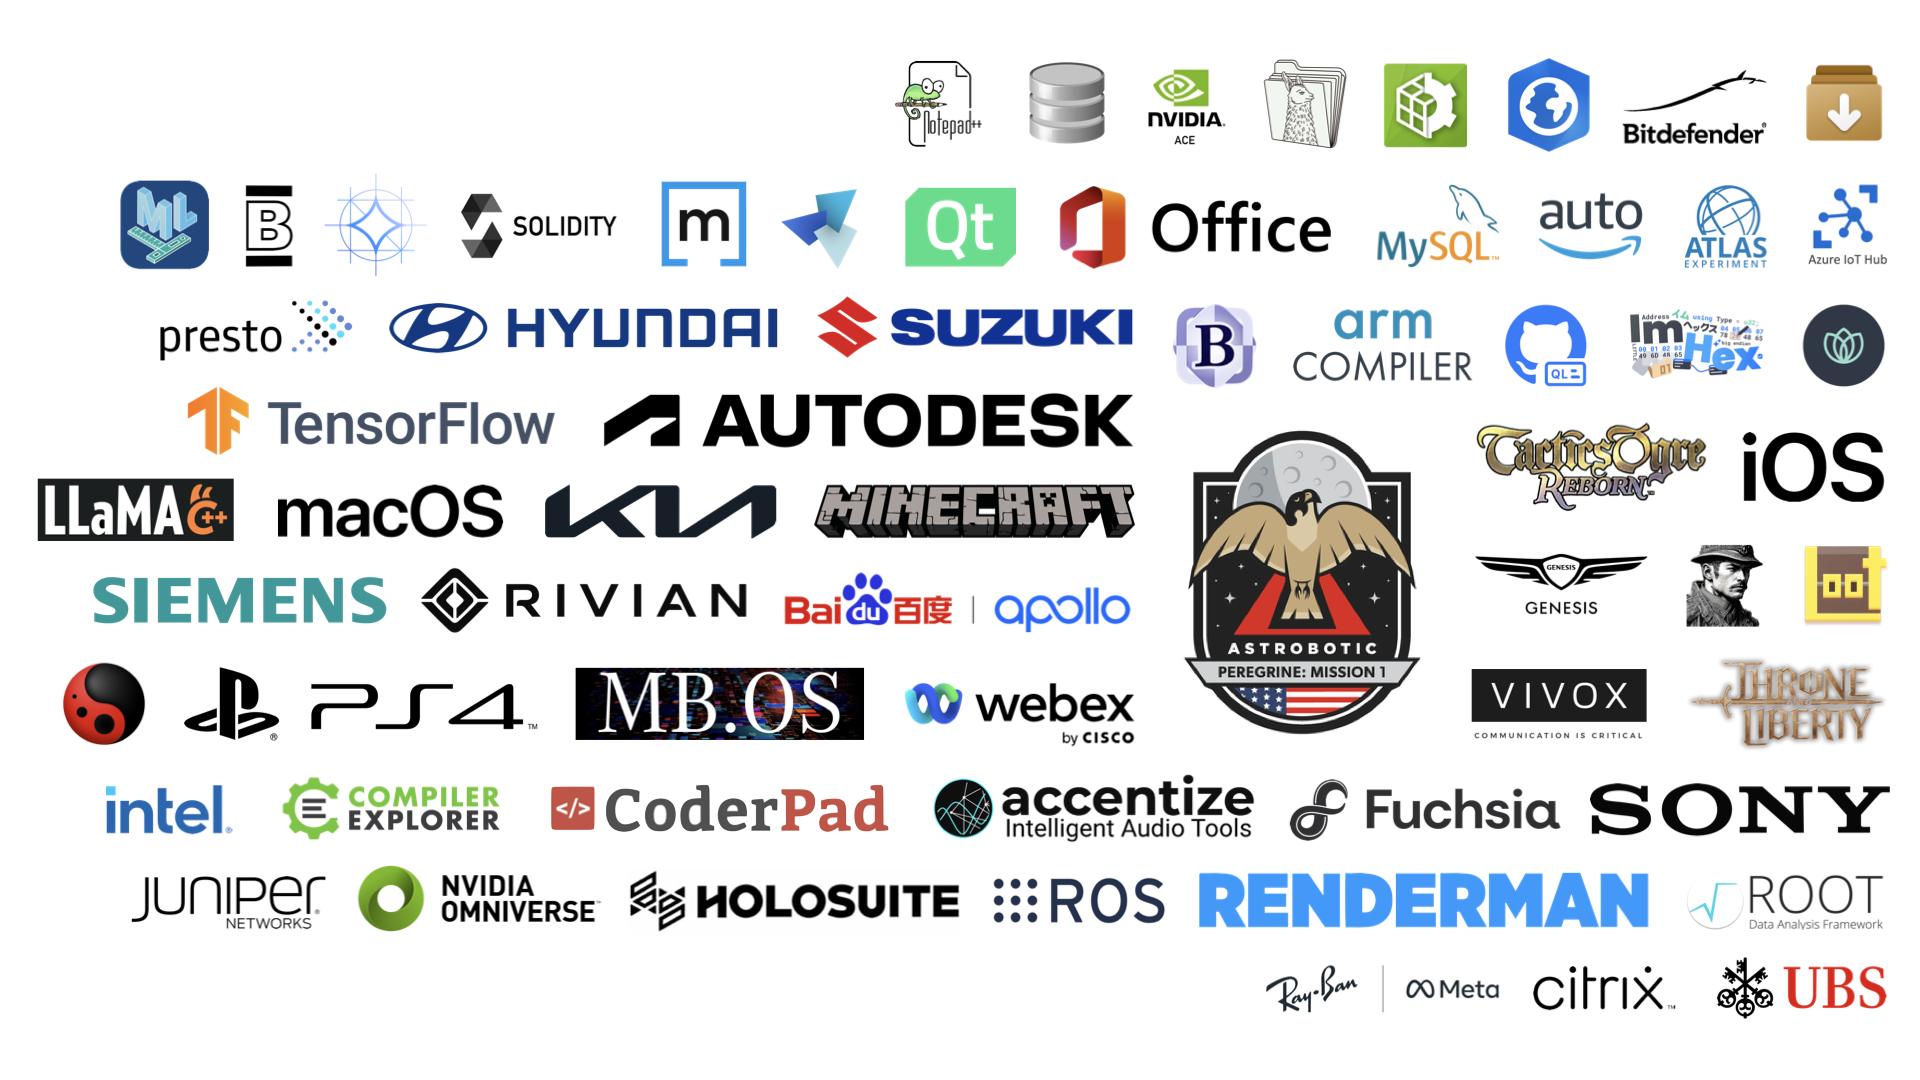
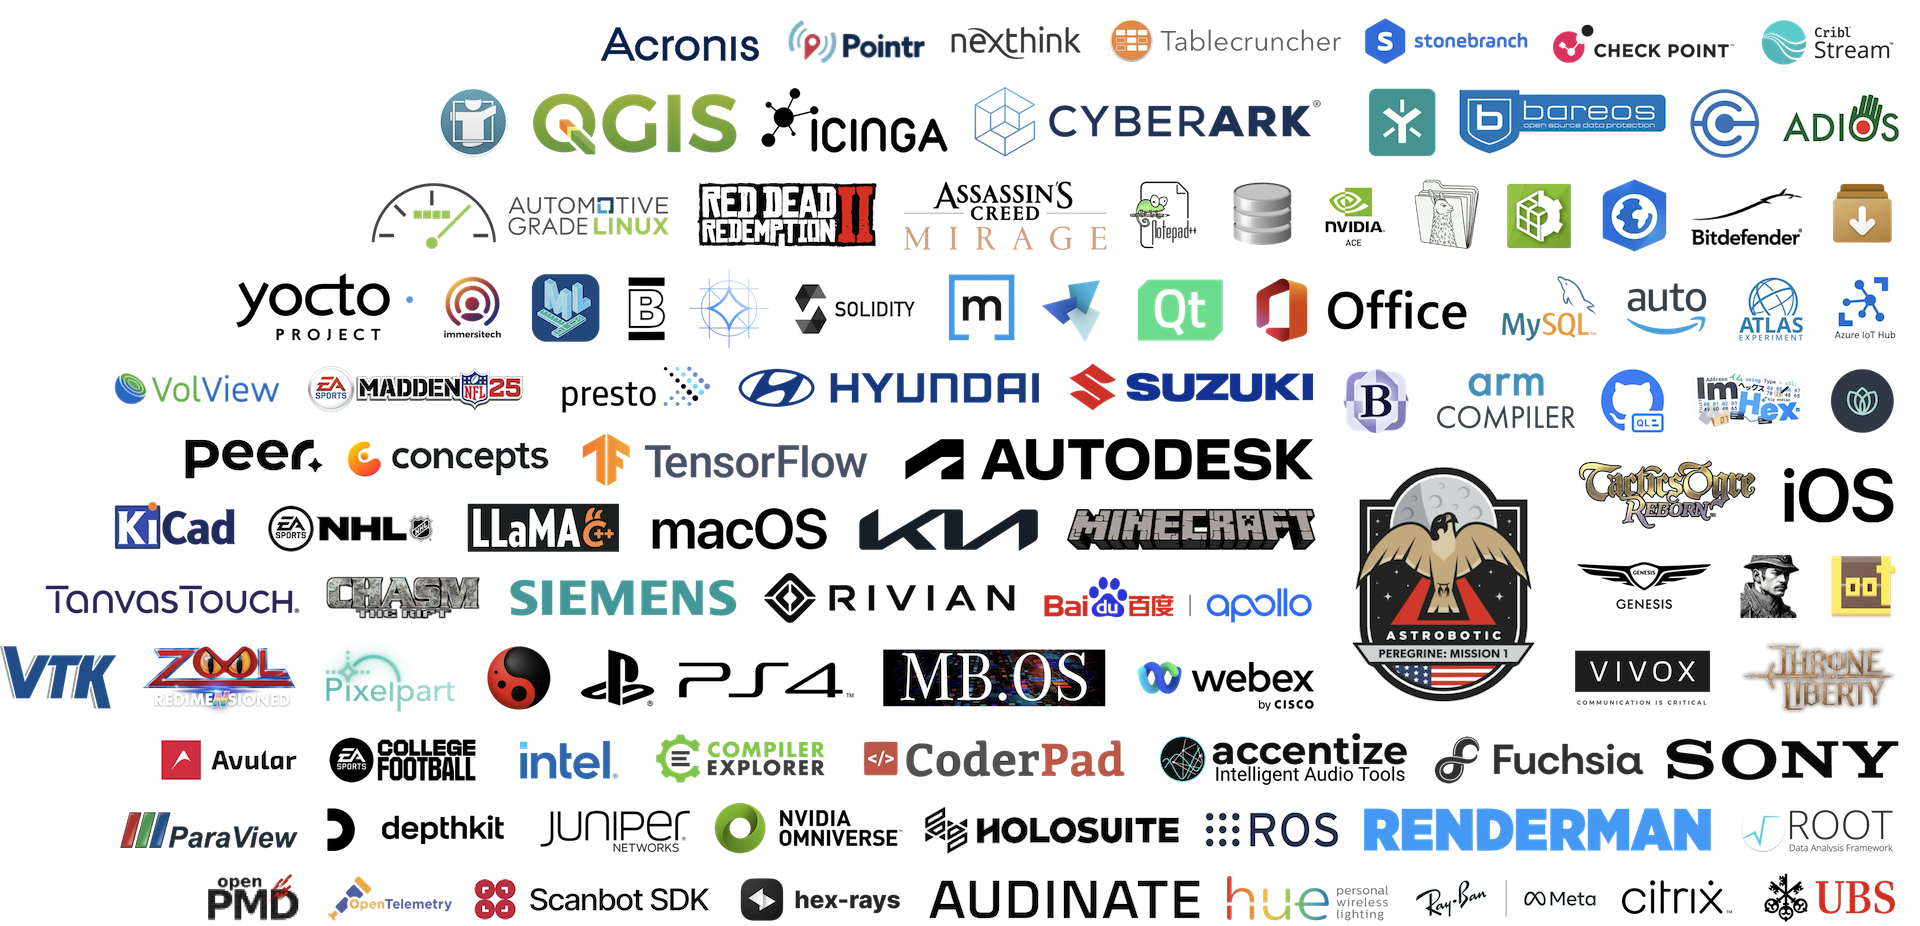
:memo: update clients

diff --git a/README.md b/README.md
@@ -1127,6 +1127,7 @@ The library is used in multiple projects, applications, operating systems, etc. 
 
 - [**Alexa Auto SDK**](https://github.com/alexa/alexa-auto-sdk), a software development kit enabling the integration of Alexa into automotive systems
 - [**Apollo**](https://github.com/ApolloAuto/apollo), a framework for building autonomous driving systems
+- [**Automotive Grade Linux (AGL)**](https://download.automotivelinux.org/AGL/release/jellyfish/latest/qemux86-64/deploy/licenses/nlohmann-json/): a collaborative open-source platform for automotive software development
 - [**Genesis Motor** (infotainment)](http://webmanual.genesis.com/ccIC/AVNT/JW/KOR/English/reference010.html), a luxury automotive brand
 - [**Hyundai** (infotainment)](https://www.hyundai.com/wsvc/ww/download.file.do?id=/content/hyundai/ww/data/opensource/data/GN7-2022/licenseCode/info), a global automotive brand
 - [**Kia** (infotainment)](http://webmanual.kia.com/PREM_GEN6/AVNT/RJPE/KOR/Korean/reference010.html), a global automotive brand
@@ -1136,16 +1137,29 @@ The library is used in multiple projects, applications, operating systems, etc. 
 
 ### Gaming and Entertainment
 
+- [**Assassin's Creed: Mirage**](https://www.mobygames.com/person/1195889/niels-lohmann/credits/): a stealth-action game set in the Middle East, focusing on the journey of a young assassin with classic parkour and stealth mechanics
+- [**Chasm: The Rift**](https://www.mobygames.com/person/1195889/niels-lohmann/credits/): a first-person shooter blending horror and adventure, where players navigate dark realms and battle monsters
+- [**College Football 25**](https://www.mobygames.com/person/1195889/niels-lohmann/credits/): a college football simulation game featuring gameplay that mimics real-life college teams and competitions
+- [**Concepts**](https://concepts.app/en/licenses): a digital sketching app designed for creative professionals, offering flexible drawing tools for illustration, design, and brainstorming
+- [**Depthkit**](https://www.depthkit.tv/third-party-licenses): a tool for creating and capturing volumetric video, enabling immersive 3D experiences and interactive content
+- [**immersivetech**](https://immersitech.io/open-source-third-party-software/): a technology company focused on immersive experiences, providing tools and solutions for virtual and augmented reality applications
 - [**LOOT**](https://loot.readthedocs.io/_/downloads/en/0.13.0/pdf/), a tool for optimizing the load order of game plugins, commonly used in The Elder Scrolls and Fallout series
+- [**Madden NFL 25**](https://www.mobygames.com/person/1195889/niels-lohmann/credits/): a sports simulation game capturing the excitement of American football with realistic gameplay and team management features
 - [**Marne**](https://marne.io/licenses), an unofficial private server platform for hosting custom Battlefield 1 game experiences
 - [**Minecraft**](https://www.minecraft.net/zh-hant/attribution), a popular sandbox video game
+- [**NHL 22**](https://www.mobygames.com/person/1195889/niels-lohmann/credits/): a hockey simulation game offering realistic gameplay, team management, and various modes to enhance the hockey experience
+- [**Pixelpart**](https://pixelpart.net/documentation/book/third-party.html): a 2D animation and video compositing software that allows users to create animated graphics and visual effects with a focus on simplicity and ease of use
+- [**Red Dead Redemption II**](https://www.mobygames.com/person/1195889/niels-lohmann/credits/): an open-world action-adventure game following an outlaw's story in the late 1800s, emphasizing deep storytelling and immersive gameplay
 - [**Tactics Ogre: Reborn**](https://www.square-enix-games.com/en_US/documents/tactics-ogre-reborn-pc-installer-software-and-associated-plug-ins-disclosure), a tactical role-playing game featuring strategic battles and deep storytelling elements
 - [**Throne and Liberty**](https://www.amazon.com/gp/help/customer/display.html?nodeId=T7fLNw5oAevCMtJFPj&pop-up=1), an MMORPG that offers an expansive fantasy world with dynamic gameplay and immersive storytelling
 - [**Unity Vivox**](https://docs.unity3d.com/Packages/com.unity.services.vivox@15.1/license/Third%20Party%20Notices.html), a communication service that enables voice and text chat functionality in multiplayer games developed with Unity
+- [**Zool: Redimensioned**](https://www.mobygames.com/person/1195889/niels-lohmann/credits/): a modern reimagining of the classic platformer featuring fast-paced gameplay and vibrant environments
 
 ### Consumer Electronics
 
+- [**Audinate**](https://www.audinate.com/legal/software-licensing/dante-av-h-open-source-licenses/): a provider of networked audio solutions specializing in Dante technology, which facilitates high-quality digital audio transport over IP networks
 - [**Cisco Webex Desk Camera**](https://www.cisco.com/c/dam/en_us/about/doing_business/open_source/docs/CiscoWebexDeskCamera-23-1622100417.pdf), a video camera designed for professional-quality video conferencing and remote collaboration
+- [**Philips Hue Personal Wireless Lighting**](http://2ak5ape.257.cz/): a smart lighting system for customizable and wireless home illumination
 - [**Ray-Ban Meta Smart glasses**](https://www.meta.com/de/en/legal/smart-glasses/third-party-notices-android/03/), a pair of smart glasses designed for capturing photos and videos with integrated connectivity and social features
 - [**Siemens SINEMA Remote Connect**](https://cache.industry.siemens.com/dl/files/790/109793790/att_1054961/v2/OSS_SINEMA-RC_86.pdf), a remote connectivity solution for monitoring and managing industrial networks and devices securely
 - [**Sony PlayStation 4**](https://doc.dl.playstation.net/doc/ps4-oss/index.html), a gaming console developed by Sony that offers a wide range of games and multimedia entertainment features
@@ -1156,6 +1170,7 @@ The library is used in multiple projects, applications, operating systems, etc. 
 - [**Apple iOS and macOS**](https://www.apple.com/macos), a family of operating systems developed by Apple, including iOS for mobile devices and macOS for desktop computers
 - [**Google Fuchsia**](https://fuchsia.googlesource.com/third_party/json/), an open-source operating system developed by Google, designed to be secure, updatable, and adaptable across various devices
 - [**SerenityOS**](https://github.com/SerenityOS/serenity), an open-source operating system that aims to provide a simple and beautiful user experience with a focus on simplicity and elegance
+- [**Yocto**](http://ftp.emacinc.com/openembedded-sw/kirkstone-icop-5.15-kirkstone-6.0/archive-2024-10/pn8m-090t-ppc/licenses/nlohmann-json/): a Linux-based build system for creating custom operating systems and software distributions, tailored for embedded devices and IoT applications
 
 ### Development Tools and IDEs
 
@@ -1165,36 +1180,58 @@ The library is used in multiple projects, applications, operating systems, etc. 
 - [**CoderPad**](https://coderpad.io), a collaborative coding platform that enables real-time code interviews and assessments for developers; the library is included in every CoderPad instance and can be accessed with a simple `#include "json.hpp"`
 - [**Compiler Explorer**](https://godbolt.org), a web-based tool that allows users to write, compile, and visualize the assembly output of code in various programming languages; the library is readily available and accessible with the directive `#include <nlohmann/json.hpp>`.
 - [**GitHub CodeQL**](https://github.com/github/codeql), a code analysis tool used for identifying security vulnerabilities and bugs in software through semantic queries
+- [**Hex-Rays**](https://docs.hex-rays.com/user-guide/user-interface/licenses): a reverse engineering toolset for analyzing and decompiling binaries, primarily used for security research and vulnerability analysis
 - [**ImHex**](https://github.com/WerWolv/ImHex), a hex editor designed for reverse engineering, providing advanced features for data analysis and manipulation
 - [**Intel GPA Framework**](https://intel.github.io/gpasdk-doc/src/licenses.html), a suite of cross-platform tools for capturing, analyzing, and optimizing graphics applications across different APIs
 - [**Meta Yoga**](https://github.com/facebook/yoga), a layout engine that facilitates flexible and efficient user interface design across multiple platforms
-- [**Notepad++**](https://github.com/notepad-plus-plus/notepad-plus-plus), a free source code editor that supports various programming languages
 - [**NVIDIA Nsight Compute**](https://docs.nvidia.com/nsight-compute/2022.2/pdf/CopyrightAndLicenses.pdf), a performance analysis tool for CUDA applications that provides detailed insights into GPU performance metrics
+- [**Notepad++**](https://github.com/notepad-plus-plus/notepad-plus-plus), a free source code editor that supports various programming languages
+- [**OpenTelemetry C++**](https://github.com/open-telemetry/opentelemetry-cpp): a library for collecting and exporting observability data in C++, enabling developers to implement distributed tracing and metrics in their application
 - [**Qt Creator**](https://doc.qt.io/qtcreator/qtcreator-attribution-json-nlohmann.html), an IDE for developing applications using the Qt application framework
+- [**Scanbot SDK**](https://docs.scanbot.io/barcode-scanner-sdk/web/third-party-libraries/): a software development kit (SDK) that provides tools for integrating advanced document scanning and barcode scanning capabilities into applications
 
 ### Machine Learning and AI
 
 - [**Apple Core ML Tools**](https://github.com/apple/coremltools), a set of tools for converting and configuring machine learning models for deployment in Apple's Core ML framework
+- [**Avular Mobile Robotics**](https://www.avular.com/licenses/nlohmann-json-3.9.1.txt): a platform for developing and deploying mobile robotics solutions
 - [**Google gemma.cpp**](https://github.com/google/gemma.cpp), a lightweight C++ inference engine designed for running AI models from the Gemma family
 - [**llama.cpp**](https://github.com/ggerganov/llama.cpp), a C++ library designed for efficient inference of large language models (LLMs), enabling streamlined integration into applications
 - [**Mozilla llamafile**](https://github.com/Mozilla-Ocho/llamafile), a tool designed for distributing and executing large language models (LLMs) efficiently using a single file format
 - [**NVIDIA ACE**](https://docs.nvidia.com/ace/latest/index.html), a suite of real-time AI solutions designed for the development of interactive avatars and digital human applications, enabling scalable and sophisticated user interactions
+- [**Peer**](https://support.peer.inc/hc/en-us/articles/17261335054235-Licenses): a platform offering personalized AI assistants for interactive learning and creative collaboration
+- [**stable-diffusion.cpp**](https://github.com/leejet/stable-diffusion.cpp): a C++ implementation of the Stable Diffusion image generation model
+- [**TanvasTouch**](https://tanvas.co/tanvastouch-sdk-third-party-acknowledgments): a software development kit (SDK) that enables developers to create tactile experiences on touchscreens, allowing users to feel textures and physical sensations in a digital environment
 - [**TensorFlow**](https://github.com/tensorflow/tensorflow), a machine learning framework that facilitates the development and training of models, supporting data serialization and efficient data exchange between components
 
 ### Scientific Research and Analysis
 
 - [**BLACK**](https://www.black-sat.org/en/stable/installation/linux.html), a bounded linear temporal logic (LTL) satisfiability checker
 - [**CERN Atlas Athena**](https://gitlab.cern.ch/atlas/athena/-/blob/main/Control/PerformanceMonitoring/PerfMonComps/src/PerfMonMTSvc.h), a software framework used in the ATLAS experiment at the Large Hadron Collider (LHC) for performance monitoring
+- [**KAMERA**](https://github.com/Kitware/kamera): a platform for synchronized data collection and real-time deep learning to map marine species like polar bears and seals, aiding Arctic ecosystem research
+- [**KiCad**](https://gitlab.com/kicad/code/kicad/-/tree/master/thirdparty/nlohmann_json): a free and open-source software suite for electronic design automation
+- [**MeVisLab**](https://mevislabdownloads.mevis.de/docs/current/MeVis/ThirdParty/Documentation/Publish/ThirdPartyReference/index.html): a software framework for medical image processing and visualization.
+- [**OpenPMD API**](https://openpmd-api.readthedocs.io/en/0.8.0-alpha/backends/json.html): a versatile programming interface for accessing and managing scientific data, designed to facilitate the efficient storage, retrieval, and sharing of simulation data across various applications and platforms
+- [**ParaView**](https://github.com/Kitware/ParaView): an open-source tool for large-scale data visualization and analysis across various scientific domains
+- [**QGIS**](https://gitlab.b-data.ch/qgis/qgis/-/blob/backport-57658-to-release-3_34/external/nlohmann/json.hpp): a free and open-source geographic information system (GIS) application that allows users to create, edit, visualize, and analyze geospatial data across a variety of formats
+- [**VTK**](https://github.com/Kitware/VTK): a software library for 3D computer graphics, image processing, and visualization
+- [**VolView**](https://github.com/Kitware/VolView): a lightweight application for interactive visualization and analysis of 3D medical imaging data.
 
 ### Business and Productivity Software
 
 - [**ArcGIS PRO**](https://www.esri.com/content/dam/esrisites/en-us/media/legal/open-source-acknowledgements/arcgis-pro-2-8-attribution-report.html), a desktop geographic information system (GIS) application developed by Esri for mapping and spatial analysis
 - [**Autodesk Desktop**](https://damassets.autodesk.net/content/dam/autodesk/www/Company/legal-notices-trademarks/autodesk-desktop-platform-components/internal-autodesk-components-web-page-2023.pdf), a software platform developed by Autodesk for creating and managing desktop applications and services
-- [**magicplan**](https://help.magicplan.app/acknowledgments), a mobile application for creating floor plans and interior designs using augmented reality
+- [**Check Point**](https://www.checkpoint.com/about-us/copyright-and-trademarks/): a cybersecurity company specializing in threat prevention and network security solutions, offering a range of products designed to protect enterprises from cyber threats and ensure data integrity
 - [**Microsoft Office for Mac**](https://officecdnmac.microsoft.com/pr/legal/mac/OfficeforMacAttributions.html), a suite of productivity applications developed by Microsoft for macOS, including tools for word processing, spreadsheets, and presentations
+- [**Nexthink Infinity**](https://docs.nexthink.com/legal/services-terms/experience-open-source-software-licenses/infinity-2022.8-software-licenses): a digital employee experience management platform for monitoring and improving IT performance
+- [**Sophos Connect Client**](https://docs.sophos.com/nsg/licenses/SophosConnect/SophosConnectAttribution.html): a secure VPN client from Sophos that allows remote users to connect to their corporate network, ensuring secure access to resources and data
+- [**Stonebranch**](https://stonebranchdocs.atlassian.net/wiki/spaces/UA77/pages/799545647/Licenses+for+Third-Party+Libraries): a cloud-based cybersecurity solution that integrates backup, disaster recovery, and cybersecurity features to protect data and ensure business continuity for organizations
+- [**Tablecruncher**](https://tablecruncher.com/): a data analysis tool that allows users to import, analyze, and visualize spreadsheet data, offering interactive features for better insights and decision-making
+- [**magicplan**](https://help.magicplan.app/acknowledgments), a mobile application for creating floor plans and interior designs using augmented reality
 
 ### Databases and Big Data
 
+- [**ADIOS2**](https://code.ornl.gov/ecpcitest/adios2/-/tree/pr4285_FFSUpstream/thirdparty/nlohmann_json?ref_type=heads): a data management framework designed for high-performance input and output operations
+- [**Cribl Stream**](https://docs.cribl.io/stream/third-party-current-list/): a real-time data processing platform that enables organizations to collect, route, and transform observability data, enhancing visibility and insights into their systems
 - [**DB Browser for SQLite**](https://github.com/sqlitebrowser/sqlitebrowser), a visual open-source tool for creating, designing, and editing SQLite database files
 - [**MySQL Connector/C++**](https://docs.oracle.com/cd/E17952_01/connector-cpp-9.1-license-com-en/license-opentelemetry-cpp-com.html), a C++ library for connecting and interacting with MySQL databases
 - [**MySQL NDB Cluster**](https://downloads.mysql.com/docs/licenses/cluster-9.0-com-en.pdf), a distributed database system that provides high availability and scalability for MySQL databases
@@ -1210,15 +1247,27 @@ The library is used in multiple projects, applications, operating systems, etc. 
 - [**Pixar Renderman**](https://rmanwiki-26.pixar.com/space/REN26/19662083/Legal+Notice), a photorealistic 3D rendering software developed by Pixar, widely used in the film industry for creating high-quality visual effects and animations
 - [**ROS - Robot Operating System**](http://docs.ros.org/en/noetic/api/behaviortree_cpp/html/json_8hpp_source.html), a set of software libraries and tools that assist in developing robot applications
 - [**UBS**](https://www.ubs.com/), a multinational financial services and banking company
+- [**GAMS**](https://www.gams.com/47/docs/THIRDPARTY.html): a high-performance mathematical modeling system for optimization and decision support
+- [**M-Star**](https://docs.mstarcfd.com/3_Licensing/thirdparty-licenses.html): a computational fluid dynamics software for simulating and analyzing fluid flow
+- [**MapleSim CAD Toolbox**](https://www.maplesoft.com/support/help/MapleSim/view.aspx?path=CADToolbox/copyright): a software extension for MapleSim that integrates CAD models, allowing users to import, manipulate, and analyze 3D CAD data within the MapleSim environment for enhanced modeling and simulation
+- [**Kitware SMTK**](https://github.com/Kitware/SMTK): a software toolkit for managing simulation models and workflows in scientific and engineering applications
 
 ### Enterprise and Cloud Applications
 
+- [**Acronis Cyber Protect Cloud**](https://care.acronis.com/s/article/59533-Third-party-software-used-in-Acronis-Cyber-Protect-Cloud?language=en_US): an all-in-one data protection solution that combines backup, disaster recovery, and cybersecurity to safeguard business data from threats like ransomware
+- [**Baereos**](https://gitlab.tiger-computing.co.uk/packages/bareos/-/blob/tiger/bullseye/third-party/CLI11/examples/json.cpp): a backup solution that provides data protection and recovery options for various environments, including physical and virtual systems
 - [**Bitdefender Home Scanner**](https://www.bitdefender.de/site/Main/view/home-scanner-open-source.html), a tool from Bitdefender that scans devices for malware and security threats, providing a safeguard against potential online dangers
+- [**Citrix Provisioning**](https://docs.citrix.com/en-us/provisioning/2203-ltsr/downloads/pvs-third-party-notices-2203.pdf): a solution that streamlines the delivery of virtual desktops and applications by allowing administrators to manage and provision resources efficiently across multiple environments
 - [**Citrix Virtual Apps and Desktops**](https://docs.citrix.com/en-us/citrix-virtual-apps-desktops/2305/downloads/third-party-notices-apps-and-desktops.pdf), a solution from Citrix that delivers virtual apps and desktops
+- [**Cyberarc**](https://docs.cyberark.com/Downloads/Legal/Privileged%20Session%20Manager%20for%20SSH%20Third-Party%20Notices.pdf): a security solution that specializes in privileged access management, enabling organizations to control and monitor access to critical systems and data, thereby enhancing overall cybersecurity posture
+- [**Egnyte Desktop**](https://helpdesk.egnyte.com/hc/en-us/articles/360007071732-Third-Party-Software-Acknowledgements): a secure cloud storage solution designed for businesses, enabling file sharing, collaboration, and data management across teams while ensuring compliance and data protection
 - [**Ethereum Solidity**](https://github.com/ethereum/solidity), a high-level, object-oriented programming language designed for implementing smart contracts on the Ethereum platform
+- [**Inciga**](https://fossies.org/linux/icinga2/third-party/nlohmann_json/json.hpp): a monitoring tool for IT infrastructure, designed to provide insights into system performance and availability through customizable dashboards and alerts
+- [**Intel Accelerator Management Daemon for VMware ESXi**](https://downloadmirror.intel.com/772507/THIRD-PARTY.txt): a management tool designed for monitoring and controlling Intel hardware accelerators within VMware ESXi environments, optimizing performance and resource allocation
 - [**Juniper Identity Management Service**](https://www.juniper.net/documentation/us/en/software/jims/jims-guide/jims-guide.pdf)
 - [**Microsoft Azure IoT SDK**](https://library.e.abb.com/public/2779c5f85f30484192eb3cb3f666a201/IP%20Gateway%20Open%20License%20Declaration_9AKK108467A4095_Rev_C.pdf), a collection of tools and libraries to help developers connect, build, and deploy Internet of Things (IoT) solutions on the Azure cloud platform
 - [**Microsoft WinGet**](https://github.com/microsoft/winget-cli), a command-line utility included in the Windows Package Manager
+- [**Pointr**](https://docs-dev.pointr.tech/docs/8.x/Developer%20Portal/Open%20Source%20Licenses/): a platform for indoor positioning and navigation solutions, offering tools and SDKs for developers to create location-based applications
 
 ## Supported compilers
 
